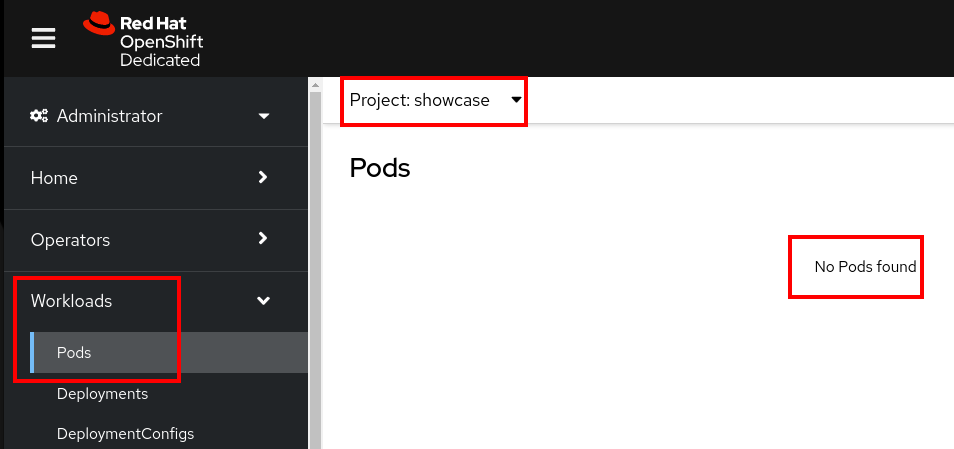
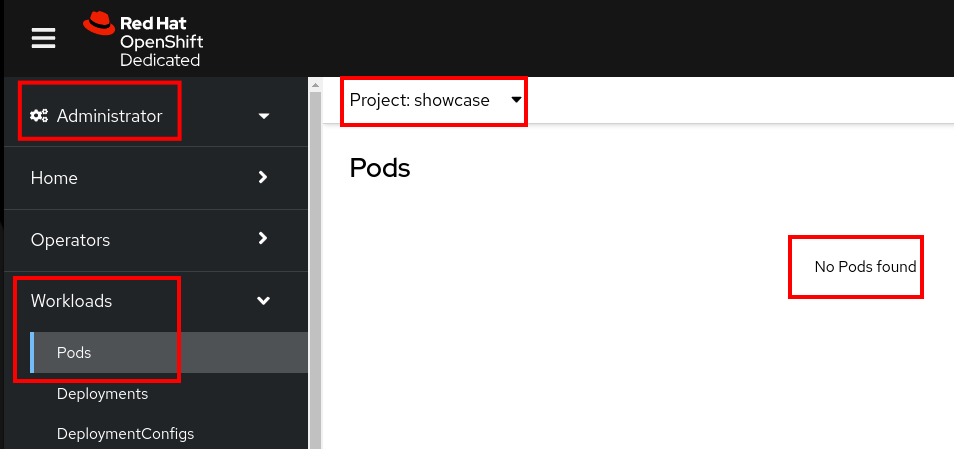
tweaks and adjustments

Changed region(s): [[0.0, 0.1559, 0.2128, 0.3118]]

diff --git a/docs/tools-and-applications/minio/minio.md b/docs/tools-and-applications/minio/minio.md
@@ -36,9 +36,12 @@ If you already have your own Data Science Project, or OpenShift project, you can
 
     ![alt_text](img/openshift.console.png)
 
-1. Go to **Workloads** then **Pods**, and confirm the selected project is the right one
+1. Make sure you use the **Administrator** view, not the developer view.
+1. Go to **Workloads** then **Pods**, and confirm the selected **project** is the right one
 
     ![alt_text](img/workloads.pods.png)
+
+1. You now have a project in which to deploy Minio
 
 ### Deploy Minio in your project
 
@@ -228,18 +231,21 @@ If you already have your own Data Science Project, or OpenShift project, you can
 
 1. The `-api` route is for programmatic access to Minio
 1. The `-ui` route is for browser-based access to Minio
+1. Your Minio Object Store is now deployed, but we still need to create at least one bucket in it, to make it useful.
 
 ## Creating a bucket in Minio
 
 ### Log in to Minio
 
-1. Click on the minio `-ui` route URL Location
-1. Log in
-    1. if you kept the default values, then:
-    1. user: `minio`
-    1. pass: `minio123`
+1. Locate the **minio-ui** Route, and open its location URL in a web browser:
+1. When prompted, log in
+    * if you kept the default values, then:
+    * user: `minio`
+    * pass: `minio123`
 
     ![alt_text](img/minio.login.png){style="width:400px"}
+
+1. You should now be logged into your Minio instance.
 
 ### Create a bucket
 
@@ -247,15 +253,15 @@ If you already have your own Data Science Project, or OpenShift project, you can
 
     ![alt_text](img/create.bucket.01.png)
 
-1. Call it `mybucket` and click **Create Bucket**:
+1. Choose a name for your bucket (for example `mybucket`) and click **Create Bucket**:
 
     ![alt_text](img/create.bucket.02.png)
 
-1. Then, to create a folder called `models` in the bucket:
+1. Repeat those steps to create as many buckets as you will need.
 
 ## Create a matching Data Connection for Minio
 
-1. In RHODS, inside of your Data Science Project, Click on **Add data connection**:
+1. Back in RHODS, inside of your Data Science Project, Click on **Add data connection**:
 
     ![alt_text](img/add.connection.png)
 
@@ -263,7 +269,17 @@ If you already have your own Data Science Project, or OpenShift project, you can
 
     ![alt_text](img/connection.details.png)
 
-# Uninstall instructions:
+1. You now have a Data Connection that maps to your **mybucket** bucket in your Minio Instance.
+1. This data connection can be used, among other things
+    * In your Workbenches
+    * For your Model Serving
+    * For your Pipeline Server Configuration
+
+## Notes and FAQ
+
+* As long as you are using the Route URLs, a Minio running in one namespace can be used by any other application, even running in another namespace, or even in another cluster altogether.
+
+## Uninstall instructions:
 
 This will completely remove Minio and all its content. Make sure you have a backup of the things your need before doing so!
 
